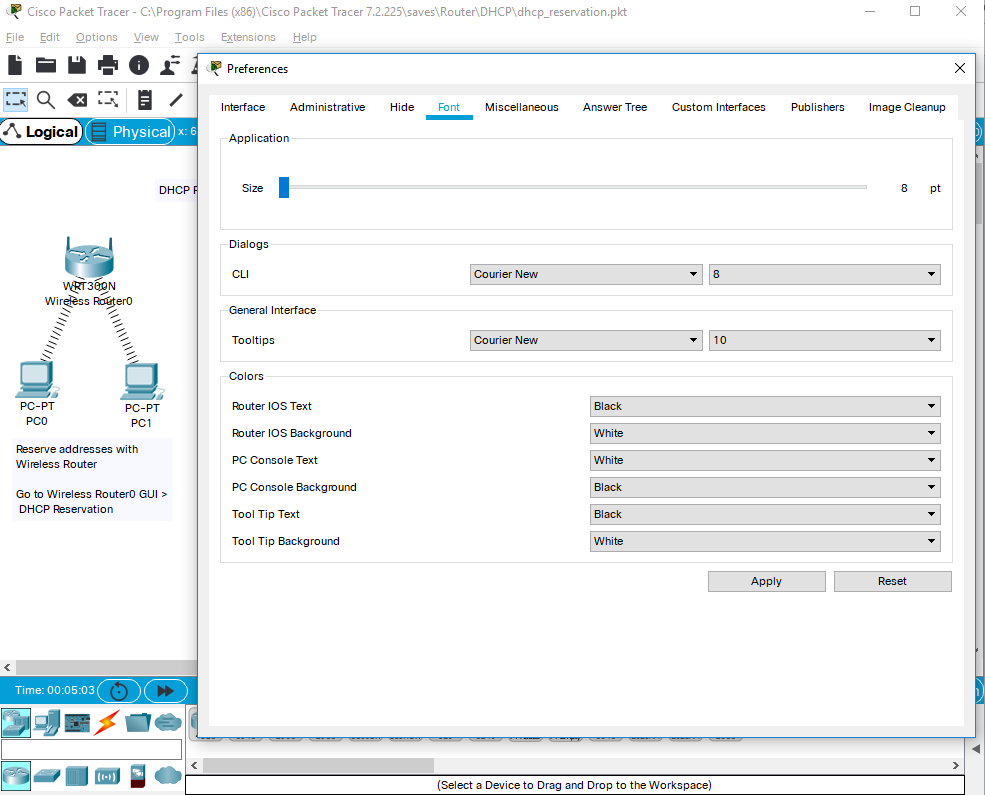
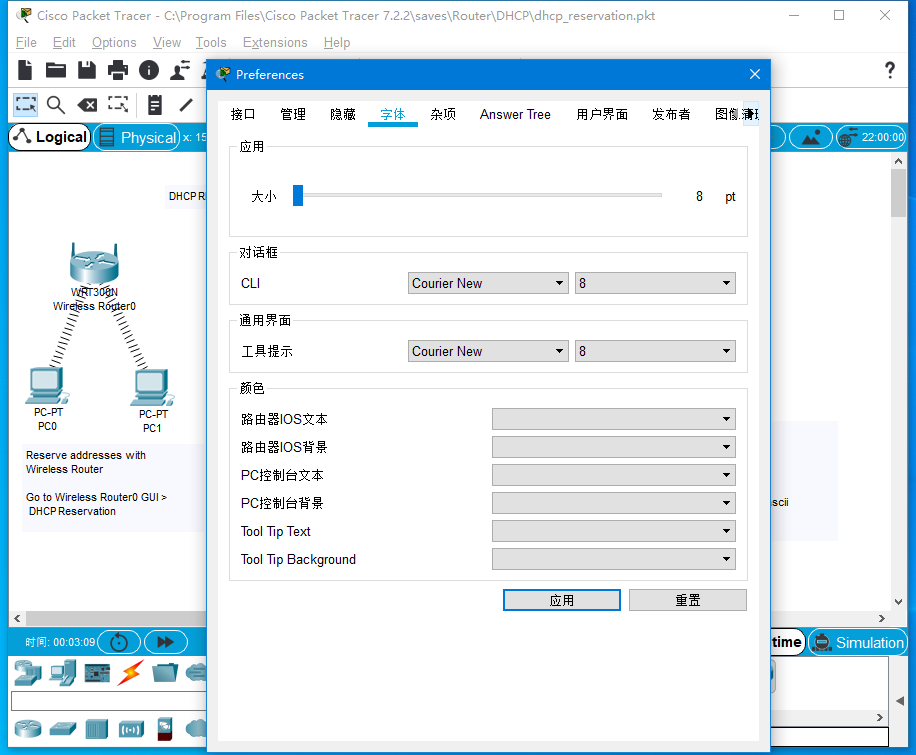
入门->字体设置/4K分辨率支持 翻译完毕

diff --git a/Simplified Chinese/fontPreference.htm b/Simplified Chinese/fontPreference.htm
@@ -1,26 +1,31 @@
 <!DOCTYPE HTML PUBLIC "-//W3C//DTD HTML 4.01 Transitional//EN">
 <html>
    <head>
-      <title>Font Setting and 4k Support</title>
+      <title>字体设置/4K分辨率支持</title>
       <meta http-equiv="Content-Type" content="text/html; charset=utf-8">
       <link rel="stylesheet" type="text/css" href="styleNormal.css">
    </head>
    <body>
-      <p class="MainHeading1">Font Setting and 4k Support
-      <hr>
-      <p class="MainHeading2">Font preference</p>
-      <p>User can adjust font size, family and color for different application User Interfaces (UI), there are 3 different UI font settings, if user has a high-resolution or 4k monitor and feels the fonts are too small, they can adjust the Application Global Size accordingly using the following settings.</p>
+      <p class="MainHeading1">字体设置/4K分辨率支持</p>
+      <hr />
+      <p class="MainHeading2">字体偏好</p>
+      <p>
+         用户可以为不同的应用程序用户界面（UI）调整字体大小，字体和颜色，共有3种不同的UI字体设置，如果用户使用高分辨率或4k显示器，并且感觉字体太小，则可以调整应用程序全局 使用以下设置相应地调整大小。
+      </p>
       <ol>
-         <li>Application Global Size</li>
+         <li>应用全局大小（Application Global Size）</li>
          <li>CLI</li>
-         <li>Tooltips</li>
+         <li>工具提示（Tooltips）</li>
       </ol>
       <p class="myPic">
          <img src="images/font_dialog.png">
       </p>
       <p>&nbsp;</p>
-      <p class="MainHeading2">Application Font</p>
-      <p>The Application Global Size Font changes the size of font and icons for the main Application UI and dialogs.  Use the slider to adjust the font and icon size and then click Apply.</p>
+      <p class="MainHeading2">应用字体（Application Font）</p>
+      <p>
+         应用程序全局大小字体更改主要应用程序UI和对话框的字体和图标的大小。<br />
+         使用滑块调整字体和图标的大小，然后单击“应用”。
+      </p>
       <p>&nbsp;</p>
       <p class="myPic">
          <img src="images/font_option1.png">
@@ -38,8 +43,8 @@
          <img src="images/font_configApp2.png">
       </p>
       <p>&nbsp;</p>
-      <p class="MainHeading2">CLI Font</p>
-      <p>The CLI font setting changes font size and family in the terminal.</p>
+      <p class="MainHeading2">CLI字体</p>
+      <p>CLI字体设置会更改终端中的字体大小和字体。</p>
       <p>&nbsp;</p>
       <p class="myPic">
          <img src="images/font_option2.png">
@@ -51,8 +56,8 @@
          <img src="images/font_CLI2.png">
       </p>
       <p>&nbsp;</p>
-      <p class="MainHeading2">Tooltips Font</p>
-      <p>The Tooltips font setting changes the font size and family of the popup tooltips.</p>
+      <p class="MainHeading2">工具提示字体</p>
+      <p>设置弹出工具提示的字体和字体大小。</p>
       <p>&nbsp;</p>
       <p class="myPic">
          <img src="images/font_option3.png">

diff --git a/Simplified Chinese/preferences.htm b/Simplified Chinese/preferences.htm
@@ -205,7 +205,7 @@
       <strong>最大重传超时（毫秒）（Maximum Retransmission Timeout in Milliseconds）</strong>:
       如果TCP连接未收到以该编号传输的段的确认，将重新传输该段。
     </p>
-    <p>Switching
+    <p>交换（Switching）
       <strong>风暴控制倍数（Storm Control Multiplier）</strong>：
       如果使用的广播帧的带宽百分比乘以该数字超过配置的阈值，则广播帧将被丢弃。
     </p>
